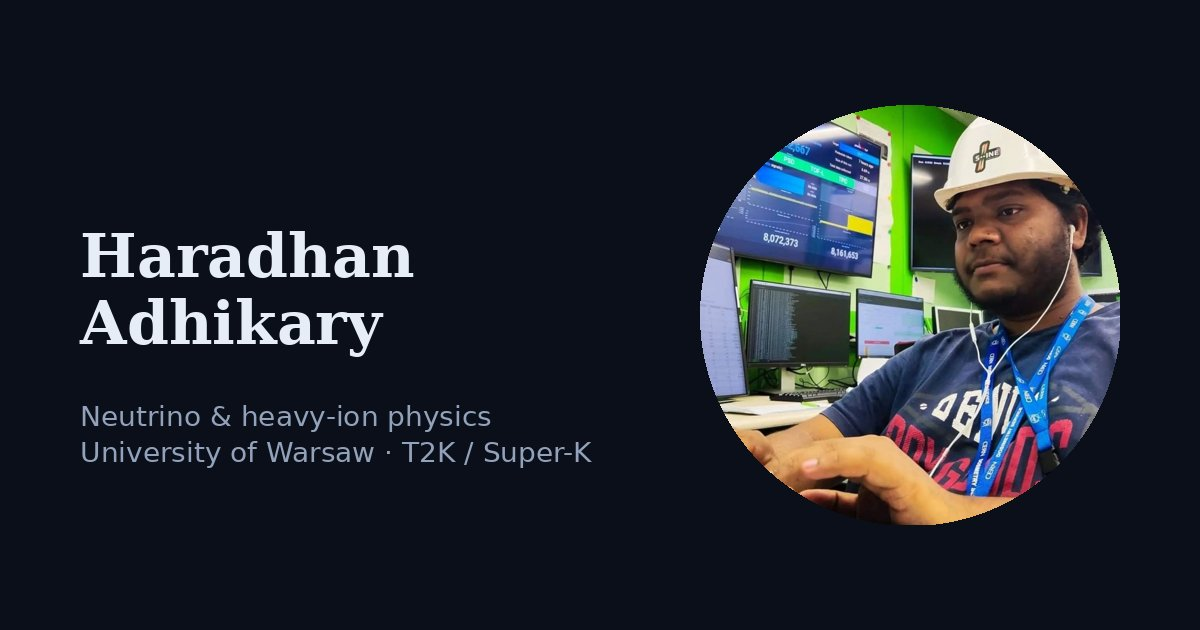
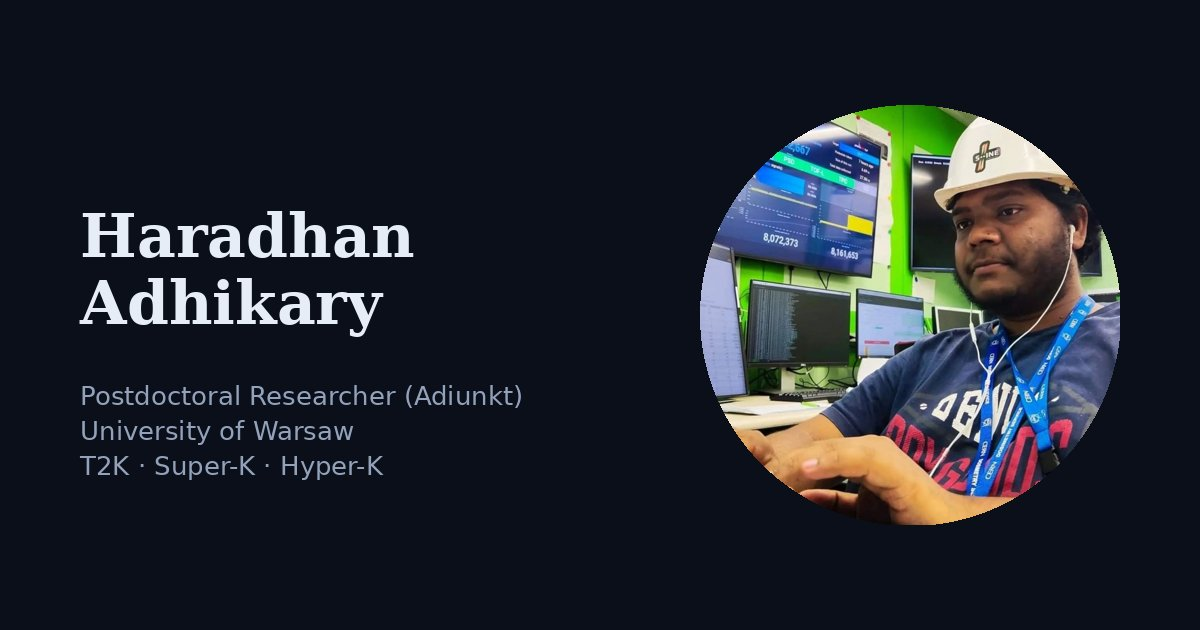
Update job title, add Hyper-K

Changed region(s): [[0.0617, 0.6032, 0.4933, 0.754], [0.0617, 0.3317, 0.3392, 0.573]]

diff --git a/index.html b/index.html
@@ -4,12 +4,12 @@
   <meta charset="utf-8">
   <meta name="viewport" content="width=device-width, initial-scale=1, viewport-fit=cover">
   <title>Dr. Haradhan Adhikary | Physicist, neutrino & heavy-ion physics</title>
-  <meta name="description" content="Haradhan Adhikary is an experimental particle physicist at the University of Warsaw working on neutrino oscillations with T2K and Super-Kamiokande, and formerly on the QCD critical point with NA61/SHINE at CERN.">
+  <meta name="description" content="Haradhan Adhikary is a postdoctoral researcher (adiunkt) at the Faculty of Physics, University of Warsaw, working on neutrino oscillations with T2K, Super-Kamiokande and Hyper-Kamiokande, and formerly on the QCD critical point with NA61/SHINE at CERN.">
   <meta name="author" content="Dr. Haradhan Adhikary">
   <link rel="canonical" href="https://hadhikart2k.github.io/HAwebsite/">
   <meta property="og:type" content="website">
   <meta property="og:title" content="Dr. Haradhan Adhikary | Physicist, neutrino & heavy-ion physics">
-  <meta property="og:description" content="Haradhan Adhikary is an experimental particle physicist at the University of Warsaw working on neutrino oscillations with T2K and Super-Kamiokande, and formerly on the QCD critical point with NA61/SHINE at CERN.">
+  <meta property="og:description" content="Haradhan Adhikary is a postdoctoral researcher (adiunkt) at the Faculty of Physics, University of Warsaw, working on neutrino oscillations with T2K, Super-Kamiokande and Hyper-Kamiokande, and formerly on the QCD critical point with NA61/SHINE at CERN.">
   <meta property="og:url" content="https://hadhikart2k.github.io/HAwebsite/">
   <meta property="og:image" content="https://hadhikart2k.github.io/HAwebsite/assets/img/og-card.jpg">
   <meta name="twitter:card" content="summary_large_image">
@@ -30,7 +30,7 @@
     <div class="wrap">
       <a class="brand" href="index.html" aria-label="Dr. Haradhan Adhikary, home">
         <svg width="30" height="30" viewBox="0 0 32 32" aria-hidden="true"><circle cx="16" cy="16" r="15" fill="#070b14"/><g fill="none" stroke-width="2.4" stroke-linecap="round"><path d="M16 7a9 9 0 0 1 9 9" stroke="#19c3ff"/><path d="M25 16a9 9 0 0 1-9 9" stroke="#3dffa0"/><path d="M16 25a9 9 0 0 1-9-9" stroke="#ffe14d"/><path d="M7 16a9 9 0 0 1 9-9" stroke="#3b4cff"/></g></svg>
-        <span class="brand-name">Haradhan Adhikary<small>University of Warsaw · T2K / SK</small></span>
+        <span class="brand-name">Haradhan Adhikary<small>Neutrino physics · University of Warsaw</small></span>
       </a>
       <nav class="nav" id="site-nav" aria-label="Main">
         <a href="index.html" aria-current="page">Home</a>
@@ -56,10 +56,10 @@
             <span class="eyebrow">Experimental particle physicist</span>
           </div>
           <h1 class="rise d1">Haradhan Adhikary</h1>
-          <p class="lede rise d2">I study how neutrinos change flavour as they travel, using the <em>T2K</em> beam and the <em>Super-Kamiokande</em> detector in Japan. Before that, I searched for the critical point of strongly interacting matter with <em>NA61/SHINE</em> at CERN.</p>
+          <p class="lede rise d2">I study how neutrinos change flavour as they travel, using the <em>T2K</em> beam and the <em>Super-Kamiokande</em> detector in Japan, and I am part of <em>Hyper-Kamiokande</em>, the next-generation detector now under construction. Before that, I searched for the critical point of strongly interacting matter with <em>NA61/SHINE</em> at CERN.</p>
           <div class="affil rise d2">
-            <span class="chip"><span class="dot"></span>Assistant Professor, University of Warsaw</span>
-            <span class="chip">T2K · Super-Kamiokande</span>
+            <span class="chip" title="Adiunkt is the Polish academic post held by early-career researchers, comparable to assistant professor"><span class="dot"></span>Postdoctoral Researcher (Adiunkt), University of Warsaw</span>
+            <span class="chip">T2K · Super-K · Hyper-K</span>
             <span class="chip">NA61/SHINE alumnus</span>
           </div>
           <div class="btn-row rise d3">
@@ -81,7 +81,7 @@
         <div class="prose">
           <p>I am an experimental physicist with a passion for understanding the <strong>quark–gluon plasma</strong>, <strong>heavy-ion collisions</strong> and <strong>neutrino physics</strong>.</p>
           <p>My PhD work with the <strong>NA61/SHINE collaboration</strong> at the CERN SPS in Geneva focused on the search for the critical point of strongly interacting matter, using intermittency analysis of protons. I presented this work at many international conferences.</p>
-          <p>As an <strong>Assistant Professor at the University of Warsaw</strong>, I now work on <strong>neutrino oscillations</strong> with the <strong>T2K and Super-Kamiokande collaborations</strong> in Japan, on the joint analysis of beam and atmospheric neutrinos.</p>
+          <p>I am a <strong>postdoctoral researcher at the Faculty of Physics, University of Warsaw</strong>. In the Polish academic system my position is <strong>adiunkt</strong>, a post comparable to assistant professor. I work on <strong>neutrino oscillations</strong> with the <strong>T2K, Super-Kamiokande and Hyper-Kamiokande collaborations</strong> in Japan, on the joint analysis of beam and atmospheric neutrinos.</p>
         </div>
       </div>
     </section>
@@ -91,12 +91,13 @@
         <div class="section-head"><div><span class="eyebrow">Research</span><h2>Two programmes, one question: how matter behaves at its extremes</h2></div><a class="link-arrow" href="research.html">Full research overview</a></div>
         <div class="themes">
           <article class="theme">
-            <div class="meta"><span class="when">Now · Japan</span><span class="eyebrow">T2K + SK</span></div>
+            <div class="meta"><span class="when">Now · Japan</span><span class="eyebrow">T2K · SK · HK</span></div>
             <h3>Neutrino oscillations</h3>
             <p>Joint fits of T2K accelerator neutrinos and Super-Kamiokande atmospheric neutrinos to measure CP violation, the mass ordering and the mixing angles.</p>
             <ul>
               <li>Momentum-scale systematics shared between beam and atmospheric samples</li>
               <li>Cross-checks between independent fitting frameworks</li>
+              <li>Preparing for Hyper-Kamiokande, the next-generation detector</li>
             </ul>
           </article>
           <article class="theme">

diff --git a/research.html b/research.html
@@ -4,12 +4,12 @@
   <meta charset="utf-8">
   <meta name="viewport" content="width=device-width, initial-scale=1, viewport-fit=cover">
   <title>Research | Dr. Haradhan Adhikary</title>
-  <meta name="description" content="Research of Haradhan Adhikary: joint T2K and Super-Kamiokande neutrino oscillation analysis, and the NA61/SHINE search for the critical point of strongly interacting matter.">
+  <meta name="description" content="Research of Haradhan Adhikary: joint T2K and Super-Kamiokande neutrino oscillation analysis, Hyper-Kamiokande, and the NA61/SHINE search for the critical point of strongly interacting matter.">
   <meta name="author" content="Dr. Haradhan Adhikary">
   <link rel="canonical" href="https://hadhikart2k.github.io/HAwebsite/research.html">
   <meta property="og:type" content="website">
   <meta property="og:title" content="Research | Dr. Haradhan Adhikary">
-  <meta property="og:description" content="Research of Haradhan Adhikary: joint T2K and Super-Kamiokande neutrino oscillation analysis, and the NA61/SHINE search for the critical point of strongly interacting matter.">
+  <meta property="og:description" content="Research of Haradhan Adhikary: joint T2K and Super-Kamiokande neutrino oscillation analysis, Hyper-Kamiokande, and the NA61/SHINE search for the critical point of strongly interacting matter.">
   <meta property="og:url" content="https://hadhikart2k.github.io/HAwebsite/research.html">
   <meta property="og:image" content="https://hadhikart2k.github.io/HAwebsite/assets/img/og-card.jpg">
   <meta name="twitter:card" content="summary_large_image">
@@ -30,7 +30,7 @@
     <div class="wrap">
       <a class="brand" href="index.html" aria-label="Dr. Haradhan Adhikary, home">
         <svg width="30" height="30" viewBox="0 0 32 32" aria-hidden="true"><circle cx="16" cy="16" r="15" fill="#070b14"/><g fill="none" stroke-width="2.4" stroke-linecap="round"><path d="M16 7a9 9 0 0 1 9 9" stroke="#19c3ff"/><path d="M25 16a9 9 0 0 1-9 9" stroke="#3dffa0"/><path d="M16 25a9 9 0 0 1-9-9" stroke="#ffe14d"/><path d="M7 16a9 9 0 0 1 9-9" stroke="#3b4cff"/></g></svg>
-        <span class="brand-name">Haradhan Adhikary<small>University of Warsaw · T2K / SK</small></span>
+        <span class="brand-name">Haradhan Adhikary<small>Neutrino physics · University of Warsaw</small></span>
       </a>
       <nav class="nav" id="site-nav" aria-label="Main">
         <a href="index.html">Home</a>
@@ -57,11 +57,12 @@
     <section class="section">
       <div class="wrap split">
         <div class="prose">
-          <span class="eyebrow">Current · T2K and Super-Kamiokande</span>
+          <span class="eyebrow">Current · T2K, Super-Kamiokande and Hyper-Kamiokande</span>
           <h2>Neutrino oscillations</h2>
           <p>Neutrinos come in three flavours and change from one to another as they travel. How often this happens depends on the neutrino mixing angles, the mass differences and a possible <strong>CP-violating phase</strong>, which could help explain why the universe contains more matter than antimatter.</p>
           <p><strong>T2K</strong> sends a beam of muon neutrinos 295 km from J-PARC in Tokai to the <strong>Super-Kamiokande</strong> detector, a 50 kt water Cherenkov tank under Mount Ikenoyama. Super-K also records neutrinos made in the atmosphere, which cross the Earth over a wide range of distances and energies.</p>
           <p>I work on the <strong>joint T2K + Super-K analysis</strong>, which fits beam and atmospheric data together. My focus is the detector's <strong>momentum (energy) scale</strong>: how uncertainties in it are shared between the beam and atmospheric samples, and how those correlations affect the oscillation results. I also help validate results across independent fitting frameworks.</p>
+          <p>I am also a member of <strong>Hyper-Kamiokande</strong>, the next-generation water Cherenkov detector being built in Kamioka. With a fiducial volume about eight times that of Super-K and an upgraded J-PARC beam, it aims to establish whether neutrinos violate CP symmetry.</p>
         </div>
         <figure>
           <div class="event-display" style="aspect-ratio:4/3"><canvas id="event-canvas" role="img" aria-label="Animated sketch of a Cherenkov ring in a water Cherenkov detector"></canvas><figcaption><span id="event-label">Cherenkov ring</span><span class="scale">early <i></i> late</span></figcaption></div>
@@ -90,7 +91,7 @@
       <div class="wrap">
         <div class="section-head"><div><span class="eyebrow">Path</span><h2>Research timeline</h2></div></div>
         <ol class="timeline">
-          <li><span class="t">Now</span><div><h3>Assistant Professor, University of Warsaw</h3><p>Neutrino oscillation physics with T2K and Super-Kamiokande; joint beam and atmospheric analysis.</p></div></li>
+          <li><span class="t">Now</span><div><h3>Postdoctoral Researcher (Adiunkt), Faculty of Physics, University of Warsaw</h3><p>Neutrino oscillation physics with T2K, Super-Kamiokande and Hyper-Kamiokande; joint beam and atmospheric analysis. <em>Adiunkt</em> is the Polish academic post comparable to assistant professor.</p></div></li>
           <li><span class="t">PhD</span><div><h3>NA61/SHINE collaboration, CERN SPS</h3><p>Search for the QCD critical point with proton intermittency; results shown at international conferences including ICPAQGP 2023 and an EMMI workshop at GSI.</p></div></li>
         </ol>
       </div>

diff --git a/contact.html b/contact.html
@@ -21,7 +21,7 @@
   <link rel="preconnect" href="https://fonts.gstatic.com" crossorigin>
   <link rel="stylesheet" href="https://fonts.googleapis.com/css2?family=IBM+Plex+Mono:wght@400;500&family=IBM+Plex+Sans:wght@400;500;600&family=Spectral:wght@500;600&display=swap">
   <link rel="stylesheet" href="assets/css/style.css">
-  <script type="application/ld+json">{"@context":"https://schema.org","@type":"Person","name":"Haradhan Adhikary","honorificPrefix":"Dr.","jobTitle":"Assistant Professor","affiliation":{"@type":"CollegeOrUniversity","name":"University of Warsaw"},"email":"mailto:h.adhikary@uw.edu.pl","url":"https://hadhikart2k.github.io/HAwebsite/","image":"https://hadhikart2k.github.io/HAwebsite/assets/img/profile.jpg","sameAs":["https://orcid.org/0000-0002-5746-1268","https://inspirehep.net/authors/1945984","https://github.com/hadhikart2k"]}</script>
+  <script type="application/ld+json">{"@context":"https://schema.org","@type":"Person","name":"Haradhan Adhikary","honorificPrefix":"Dr.","jobTitle":"Postdoctoral Researcher (Adiunkt)","affiliation":{"@type":"CollegeOrUniversity","name":"University of Warsaw"},"email":"mailto:h.adhikary@uw.edu.pl","url":"https://hadhikart2k.github.io/HAwebsite/","image":"https://hadhikart2k.github.io/HAwebsite/assets/img/profile.jpg","sameAs":["https://orcid.org/0000-0002-5746-1268","https://inspirehep.net/authors/1945984","https://github.com/hadhikart2k"]}</script>
   <script src="assets/js/main.js" defer></script>
   <script src="assets/js/admin.js" defer></script>
 </head>
@@ -31,7 +31,7 @@
     <div class="wrap">
       <a class="brand" href="index.html" aria-label="Dr. Haradhan Adhikary, home">
         <svg width="30" height="30" viewBox="0 0 32 32" aria-hidden="true"><circle cx="16" cy="16" r="15" fill="#070b14"/><g fill="none" stroke-width="2.4" stroke-linecap="round"><path d="M16 7a9 9 0 0 1 9 9" stroke="#19c3ff"/><path d="M25 16a9 9 0 0 1-9 9" stroke="#3dffa0"/><path d="M16 25a9 9 0 0 1-9-9" stroke="#ffe14d"/><path d="M7 16a9 9 0 0 1 9-9" stroke="#3b4cff"/></g></svg>
-        <span class="brand-name">Haradhan Adhikary<small>University of Warsaw · T2K / SK</small></span>
+        <span class="brand-name">Haradhan Adhikary<small>Neutrino physics · University of Warsaw</small></span>
       </a>
       <nav class="nav" id="site-nav" aria-label="Main">
         <a href="index.html">Home</a>

diff --git a/publications.html b/publications.html
@@ -4,12 +4,12 @@
   <meta charset="utf-8">
   <meta name="viewport" content="width=device-width, initial-scale=1, viewport-fit=cover">
   <title>Publications | Dr. Haradhan Adhikary</title>
-  <meta name="description" content="Publications of Haradhan Adhikary from INSPIRE-HEP: T2K, Super-Kamiokande and NA61/SHINE papers and conference proceedings.">
+  <meta name="description" content="Publications of Haradhan Adhikary from INSPIRE-HEP: T2K, Super-Kamiokande, Hyper-Kamiokande and NA61/SHINE papers and conference proceedings.">
   <meta name="author" content="Dr. Haradhan Adhikary">
   <link rel="canonical" href="https://hadhikart2k.github.io/HAwebsite/publications.html">
   <meta property="og:type" content="website">
   <meta property="og:title" content="Publications | Dr. Haradhan Adhikary">
-  <meta property="og:description" content="Publications of Haradhan Adhikary from INSPIRE-HEP: T2K, Super-Kamiokande and NA61/SHINE papers and conference proceedings.">
+  <meta property="og:description" content="Publications of Haradhan Adhikary from INSPIRE-HEP: T2K, Super-Kamiokande, Hyper-Kamiokande and NA61/SHINE papers and conference proceedings.">
   <meta property="og:url" content="https://hadhikart2k.github.io/HAwebsite/publications.html">
   <meta property="og:image" content="https://hadhikart2k.github.io/HAwebsite/assets/img/og-card.jpg">
   <meta name="twitter:card" content="summary_large_image">
@@ -30,7 +30,7 @@
     <div class="wrap">
       <a class="brand" href="index.html" aria-label="Dr. Haradhan Adhikary, home">
         <svg width="30" height="30" viewBox="0 0 32 32" aria-hidden="true"><circle cx="16" cy="16" r="15" fill="#070b14"/><g fill="none" stroke-width="2.4" stroke-linecap="round"><path d="M16 7a9 9 0 0 1 9 9" stroke="#19c3ff"/><path d="M25 16a9 9 0 0 1-9 9" stroke="#3dffa0"/><path d="M16 25a9 9 0 0 1-9-9" stroke="#ffe14d"/><path d="M7 16a9 9 0 0 1 9-9" stroke="#3b4cff"/></g></svg>
-        <span class="brand-name">Haradhan Adhikary<small>University of Warsaw · T2K / SK</small></span>
+        <span class="brand-name">Haradhan Adhikary<small>Neutrino physics · University of Warsaw</small></span>
       </a>
       <nav class="nav" id="site-nav" aria-label="Main">
         <a href="index.html">Home</a>

diff --git a/teaching.html b/teaching.html
@@ -30,7 +30,7 @@
     <div class="wrap">
       <a class="brand" href="index.html" aria-label="Dr. Haradhan Adhikary, home">
         <svg width="30" height="30" viewBox="0 0 32 32" aria-hidden="true"><circle cx="16" cy="16" r="15" fill="#070b14"/><g fill="none" stroke-width="2.4" stroke-linecap="round"><path d="M16 7a9 9 0 0 1 9 9" stroke="#19c3ff"/><path d="M25 16a9 9 0 0 1-9 9" stroke="#3dffa0"/><path d="M16 25a9 9 0 0 1-9-9" stroke="#ffe14d"/><path d="M7 16a9 9 0 0 1 9-9" stroke="#3b4cff"/></g></svg>
-        <span class="brand-name">Haradhan Adhikary<small>University of Warsaw · T2K / SK</small></span>
+        <span class="brand-name">Haradhan Adhikary<small>Neutrino physics · University of Warsaw</small></span>
       </a>
       <nav class="nav" id="site-nav" aria-label="Main">
         <a href="index.html">Home</a>
@@ -59,7 +59,7 @@
           <article class="card">
             <span class="meta">Lecture notes</span>
             <h3>Neutrino oscillations</h3>
-            <p>Experimental neutrino physics: oscillation formalism, accelerator and atmospheric neutrinos, and how experiments like T2K and Super-Kamiokande measure them.</p>
+            <p>Experimental neutrino physics: oscillation formalism, accelerator and atmospheric neutrinos, and how experiments like T2K, Super-Kamiokande and Hyper-Kamiokande measure them.</p>
             <div class="foot"><span class="soon">PDF coming soon</span></div>
           </article>
           <article class="card">

diff --git a/404.html b/404.html
@@ -30,7 +30,7 @@
     <div class="wrap">
       <a class="brand" href="index.html" aria-label="Dr. Haradhan Adhikary, home">
         <svg width="30" height="30" viewBox="0 0 32 32" aria-hidden="true"><circle cx="16" cy="16" r="15" fill="#070b14"/><g fill="none" stroke-width="2.4" stroke-linecap="round"><path d="M16 7a9 9 0 0 1 9 9" stroke="#19c3ff"/><path d="M25 16a9 9 0 0 1-9 9" stroke="#3dffa0"/><path d="M16 25a9 9 0 0 1-9-9" stroke="#ffe14d"/><path d="M7 16a9 9 0 0 1 9-9" stroke="#3b4cff"/></g></svg>
-        <span class="brand-name">Haradhan Adhikary<small>University of Warsaw · T2K / SK</small></span>
+        <span class="brand-name">Haradhan Adhikary<small>Neutrino physics · University of Warsaw</small></span>
       </a>
       <nav class="nav" id="site-nav" aria-label="Main">
         <a href="index.html">Home</a>

diff --git a/admin.html b/admin.html
@@ -30,7 +30,7 @@
     <div class="wrap">
       <a class="brand" href="index.html" aria-label="Dr. Haradhan Adhikary, home">
         <svg width="30" height="30" viewBox="0 0 32 32" aria-hidden="true"><circle cx="16" cy="16" r="15" fill="#070b14"/><g fill="none" stroke-width="2.4" stroke-linecap="round"><path d="M16 7a9 9 0 0 1 9 9" stroke="#19c3ff"/><path d="M25 16a9 9 0 0 1-9 9" stroke="#3dffa0"/><path d="M16 25a9 9 0 0 1-9-9" stroke="#ffe14d"/><path d="M7 16a9 9 0 0 1 9-9" stroke="#3b4cff"/></g></svg>
-        <span class="brand-name">Haradhan Adhikary<small>University of Warsaw · T2K / SK</small></span>
+        <span class="brand-name">Haradhan Adhikary<small>Neutrino physics · University of Warsaw</small></span>
       </a>
       <nav class="nav" id="site-nav" aria-label="Main">
         <a href="index.html">Home</a>

diff --git a/gallery.html b/gallery.html
@@ -30,7 +30,7 @@
     <div class="wrap">
       <a class="brand" href="index.html" aria-label="Dr. Haradhan Adhikary, home">
         <svg width="30" height="30" viewBox="0 0 32 32" aria-hidden="true"><circle cx="16" cy="16" r="15" fill="#070b14"/><g fill="none" stroke-width="2.4" stroke-linecap="round"><path d="M16 7a9 9 0 0 1 9 9" stroke="#19c3ff"/><path d="M25 16a9 9 0 0 1-9 9" stroke="#3dffa0"/><path d="M16 25a9 9 0 0 1-9-9" stroke="#ffe14d"/><path d="M7 16a9 9 0 0 1 9-9" stroke="#3b4cff"/></g></svg>
-        <span class="brand-name">Haradhan Adhikary<small>University of Warsaw · T2K / SK</small></span>
+        <span class="brand-name">Haradhan Adhikary<small>Neutrino physics · University of Warsaw</small></span>
       </a>
       <nav class="nav" id="site-nav" aria-label="Main">
         <a href="index.html">Home</a>

diff --git a/outreach.html b/outreach.html
@@ -30,7 +30,7 @@
     <div class="wrap">
       <a class="brand" href="index.html" aria-label="Dr. Haradhan Adhikary, home">
         <svg width="30" height="30" viewBox="0 0 32 32" aria-hidden="true"><circle cx="16" cy="16" r="15" fill="#070b14"/><g fill="none" stroke-width="2.4" stroke-linecap="round"><path d="M16 7a9 9 0 0 1 9 9" stroke="#19c3ff"/><path d="M25 16a9 9 0 0 1-9 9" stroke="#3dffa0"/><path d="M16 25a9 9 0 0 1-9-9" stroke="#ffe14d"/><path d="M7 16a9 9 0 0 1 9-9" stroke="#3b4cff"/></g></svg>
-        <span class="brand-name">Haradhan Adhikary<small>University of Warsaw · T2K / SK</small></span>
+        <span class="brand-name">Haradhan Adhikary<small>Neutrino physics · University of Warsaw</small></span>
       </a>
       <nav class="nav" id="site-nav" aria-label="Main">
         <a href="index.html">Home</a>

diff --git a/talks.html b/talks.html
@@ -30,7 +30,7 @@
     <div class="wrap">
       <a class="brand" href="index.html" aria-label="Dr. Haradhan Adhikary, home">
         <svg width="30" height="30" viewBox="0 0 32 32" aria-hidden="true"><circle cx="16" cy="16" r="15" fill="#070b14"/><g fill="none" stroke-width="2.4" stroke-linecap="round"><path d="M16 7a9 9 0 0 1 9 9" stroke="#19c3ff"/><path d="M25 16a9 9 0 0 1-9 9" stroke="#3dffa0"/><path d="M16 25a9 9 0 0 1-9-9" stroke="#ffe14d"/><path d="M7 16a9 9 0 0 1 9-9" stroke="#3b4cff"/></g></svg>
-        <span class="brand-name">Haradhan Adhikary<small>University of Warsaw · T2K / SK</small></span>
+        <span class="brand-name">Haradhan Adhikary<small>Neutrino physics · University of Warsaw</small></span>
       </a>
       <nav class="nav" id="site-nav" aria-label="Main">
         <a href="index.html">Home</a>
